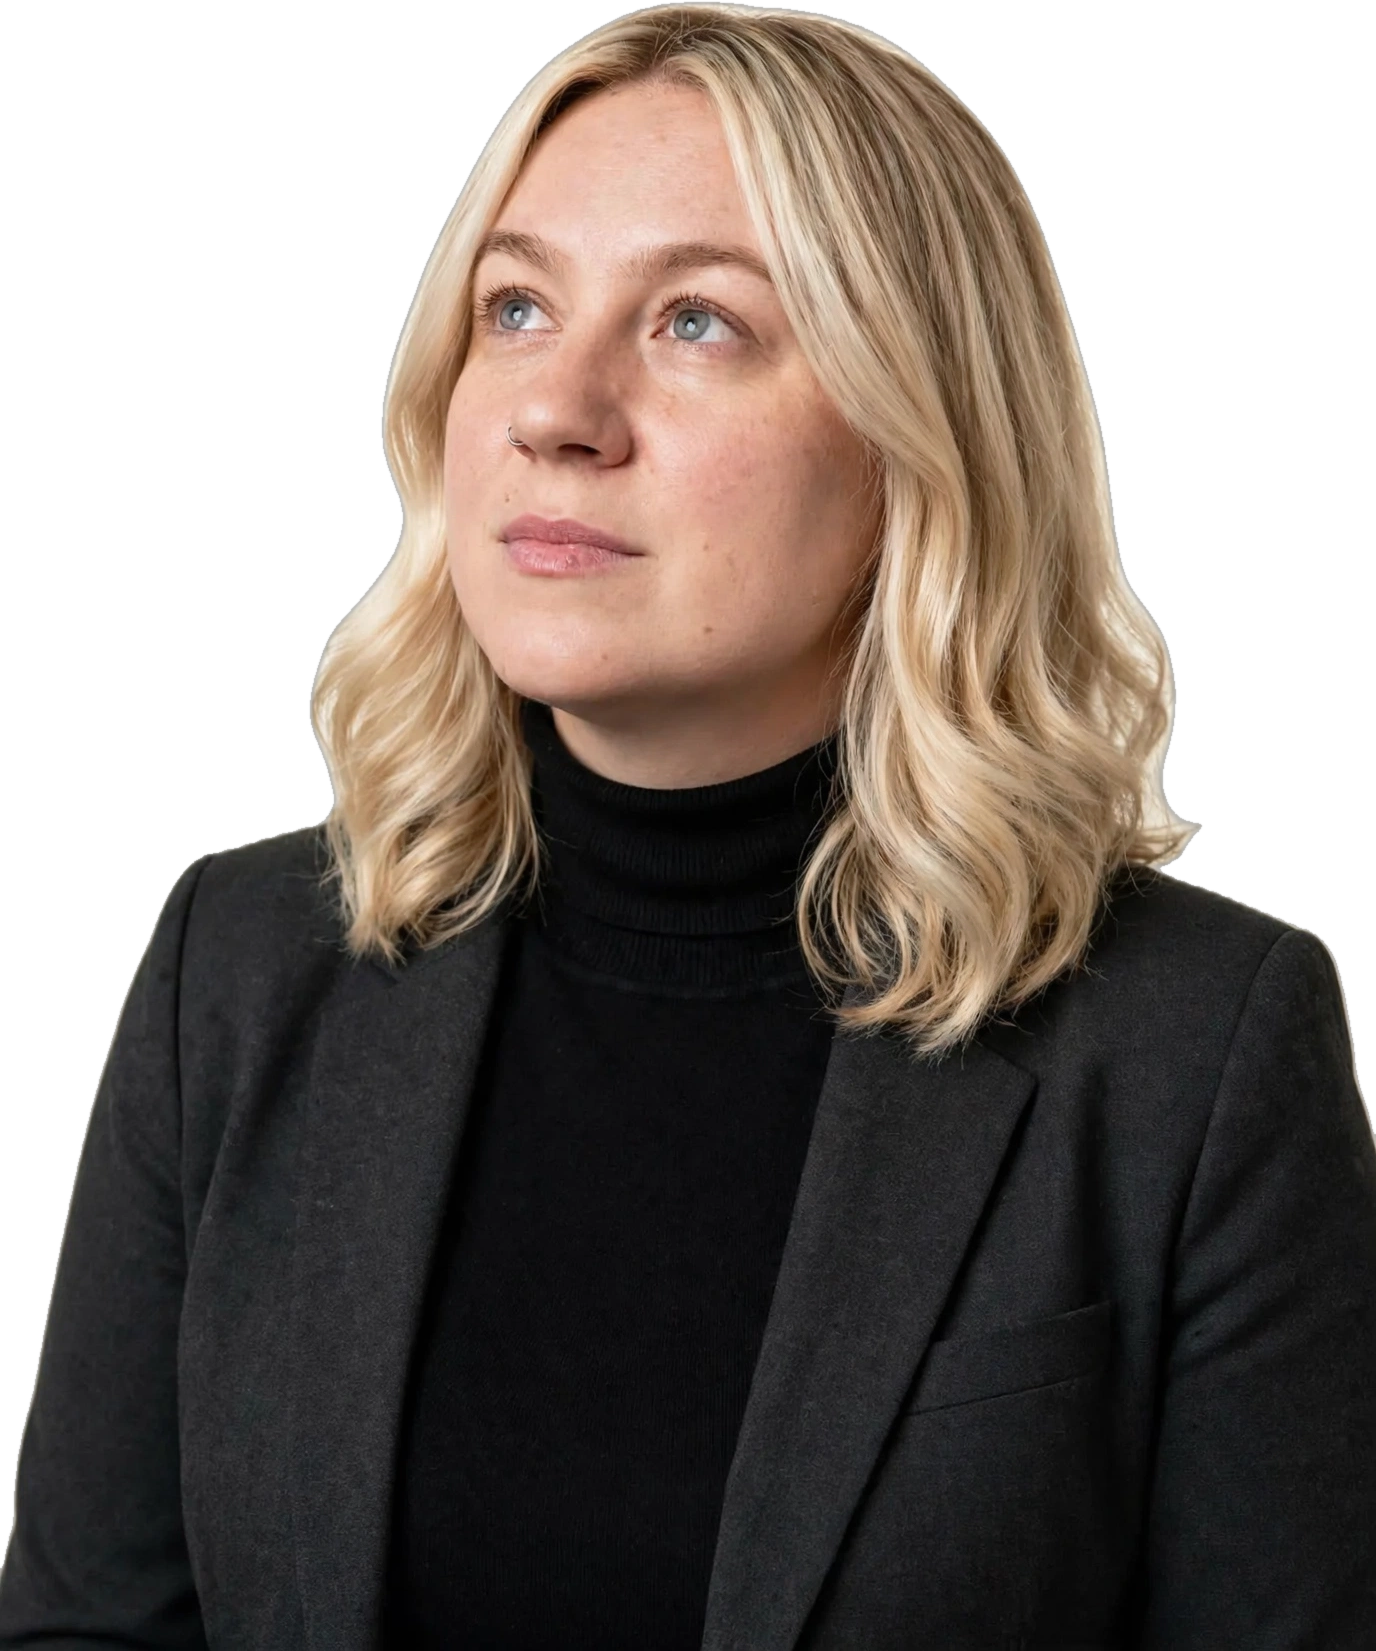
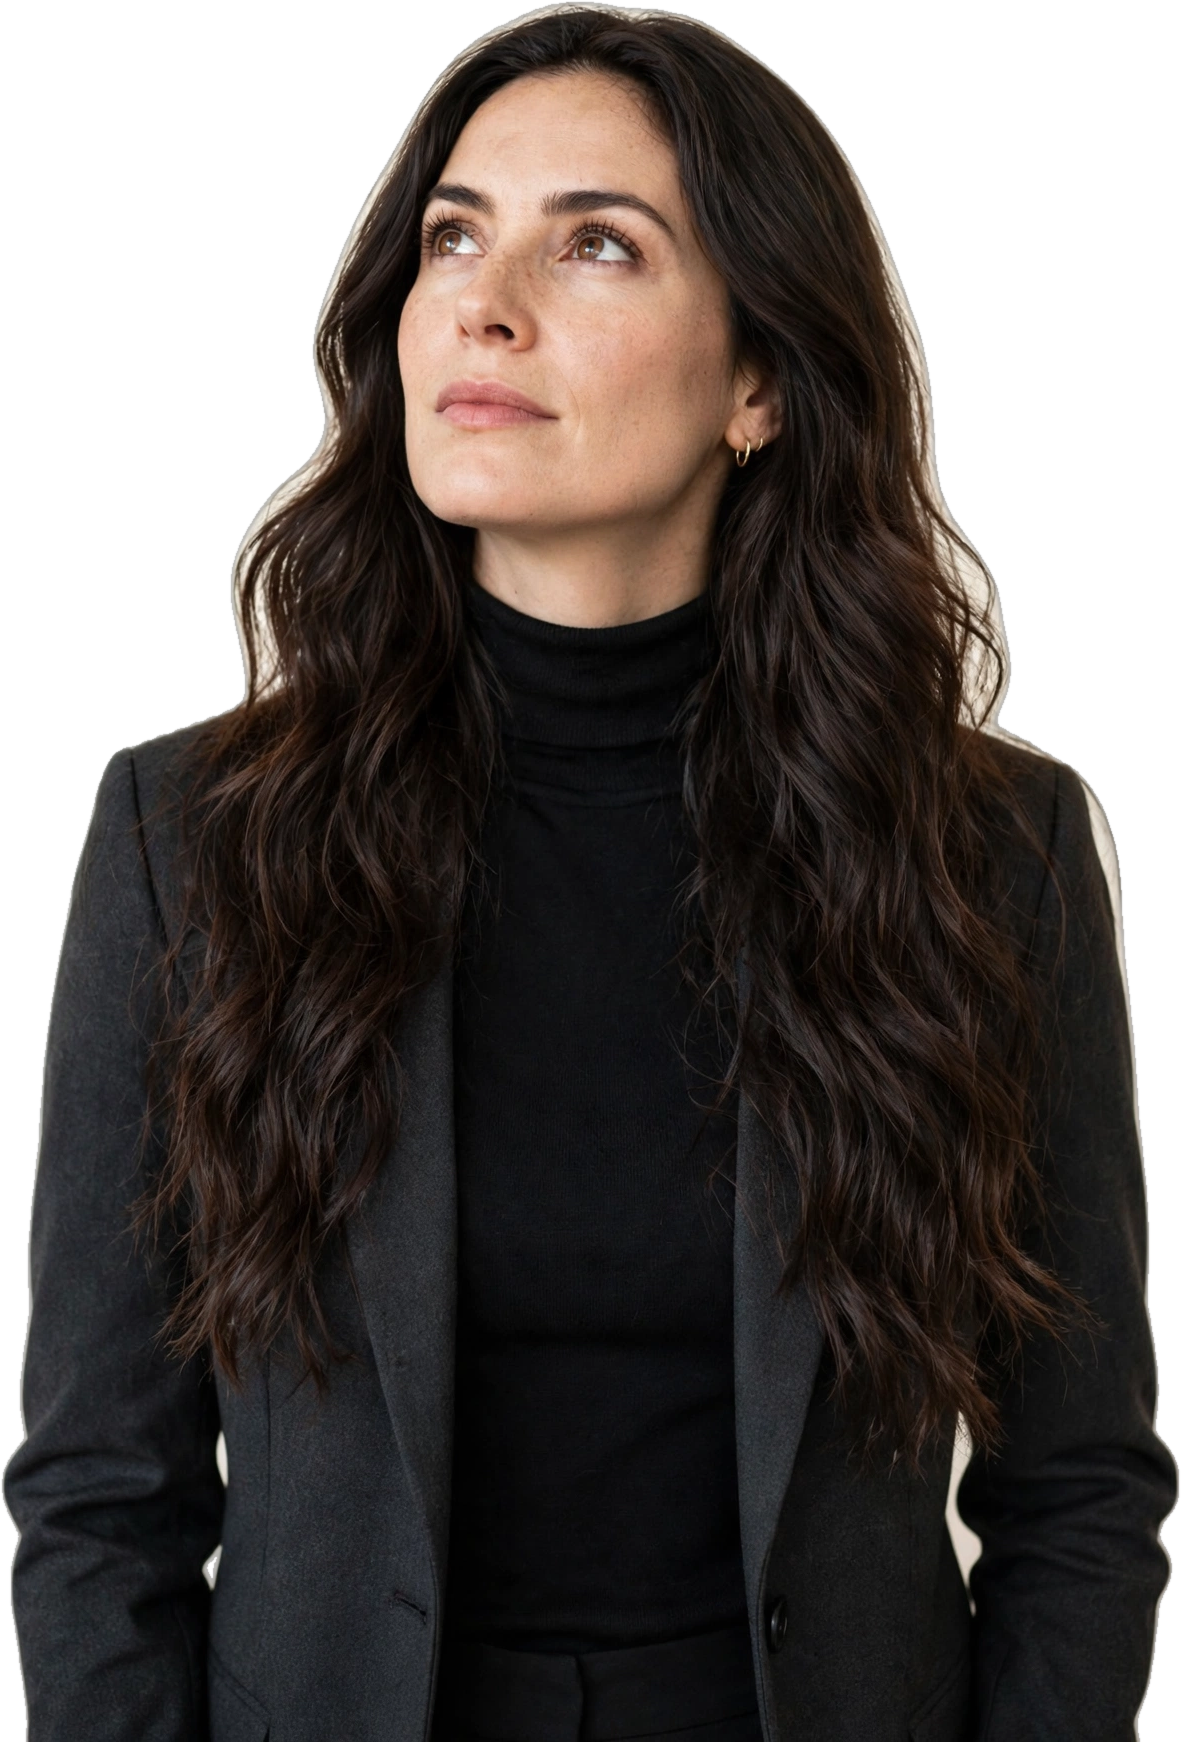
Billie's face replaced site-wide with a fictional model portrait (Buddy's order): hero cutout, Word card and mini portrait all swapped

diff --git a/index.html b/index.html
@@ -228,7 +228,7 @@
         <div class="ttl__quote-slot ttl__quote-slot--a">
           <p class="ttl-quote">“The Cake Sheds return the weekend of 27 November.”</p>
           <p class="ttl-who">Billie — after her Glasgow expo trip. Registered, insured, food-hygiene certified.</p>
-          <img class="ttl-mini" src="assets/img/billie-pass.webp" alt="Billie with her food hygiene pass certificate">
+          <img class="ttl-mini" src="assets/img/billie-pass.webp" alt="The baker, portrait">
         </div>
         <article class="ttl__card" data-lb="murphy">
           <div class="ttl__frame">
